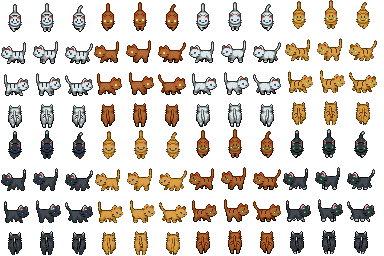
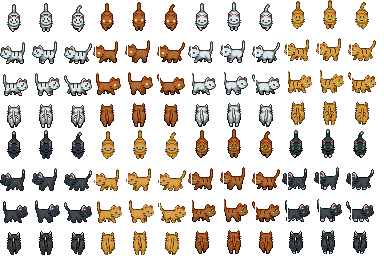
aa

diff --git a/a-dog-in-your-neighbourhood/src/game/scenes/Game.js b/a-dog-in-your-neighbourhood/src/game/scenes/Game.js
@@ -55,6 +55,38 @@ export class Game extends Scene
         super('Game');
     }
 
+    resetGameState() {
+        this.cursors = null;
+        this.puppy = null;
+        this.bird = null;
+        this.birdfly = null;
+        this.dogCaught = false;
+        this.birdEscapeDirection = 0;
+        this.birdEscapeTargetX = 0;
+        this.moveSpeed = 3;
+        this.lastAnim = 'walk-up';
+        this.lastHorizontalDir = 'right';
+        this.lastMovedTime = 0;
+        this.nextYipTime = 0;
+        this.nextSnoreTime = 0;
+        this.meatHasSpawned = false;
+        this.isTransitioning = false;
+        this.score = 0;
+        this.meatCollectedCount = 0;
+        this.cat = null;
+        this.catRunDirection = 'right';
+        this.timerVal = 30;
+        this.timerPassed = 0;
+        this.timerFlashUntil = 0;
+        this.timerFlashSuffix = '';
+        this.gameOverBirdLaunched = false;
+        this.roadSegments = [];
+        this.connectedRoadSegments = [];
+        this.connectedRoadSet = new Set();
+        this.reachableRoadSegments = [];
+        this.gameContainer = null;
+    }
+
     preload ()
     {
         this.load.setPath('assets');
@@ -101,6 +133,8 @@ export class Game extends Scene
 
     create ()
     {
+        this.resetGameState();
+
         // load audio and play background music
         this.bgMusic = this.sound.add('dog_theme', {
             volume: 0.5,
